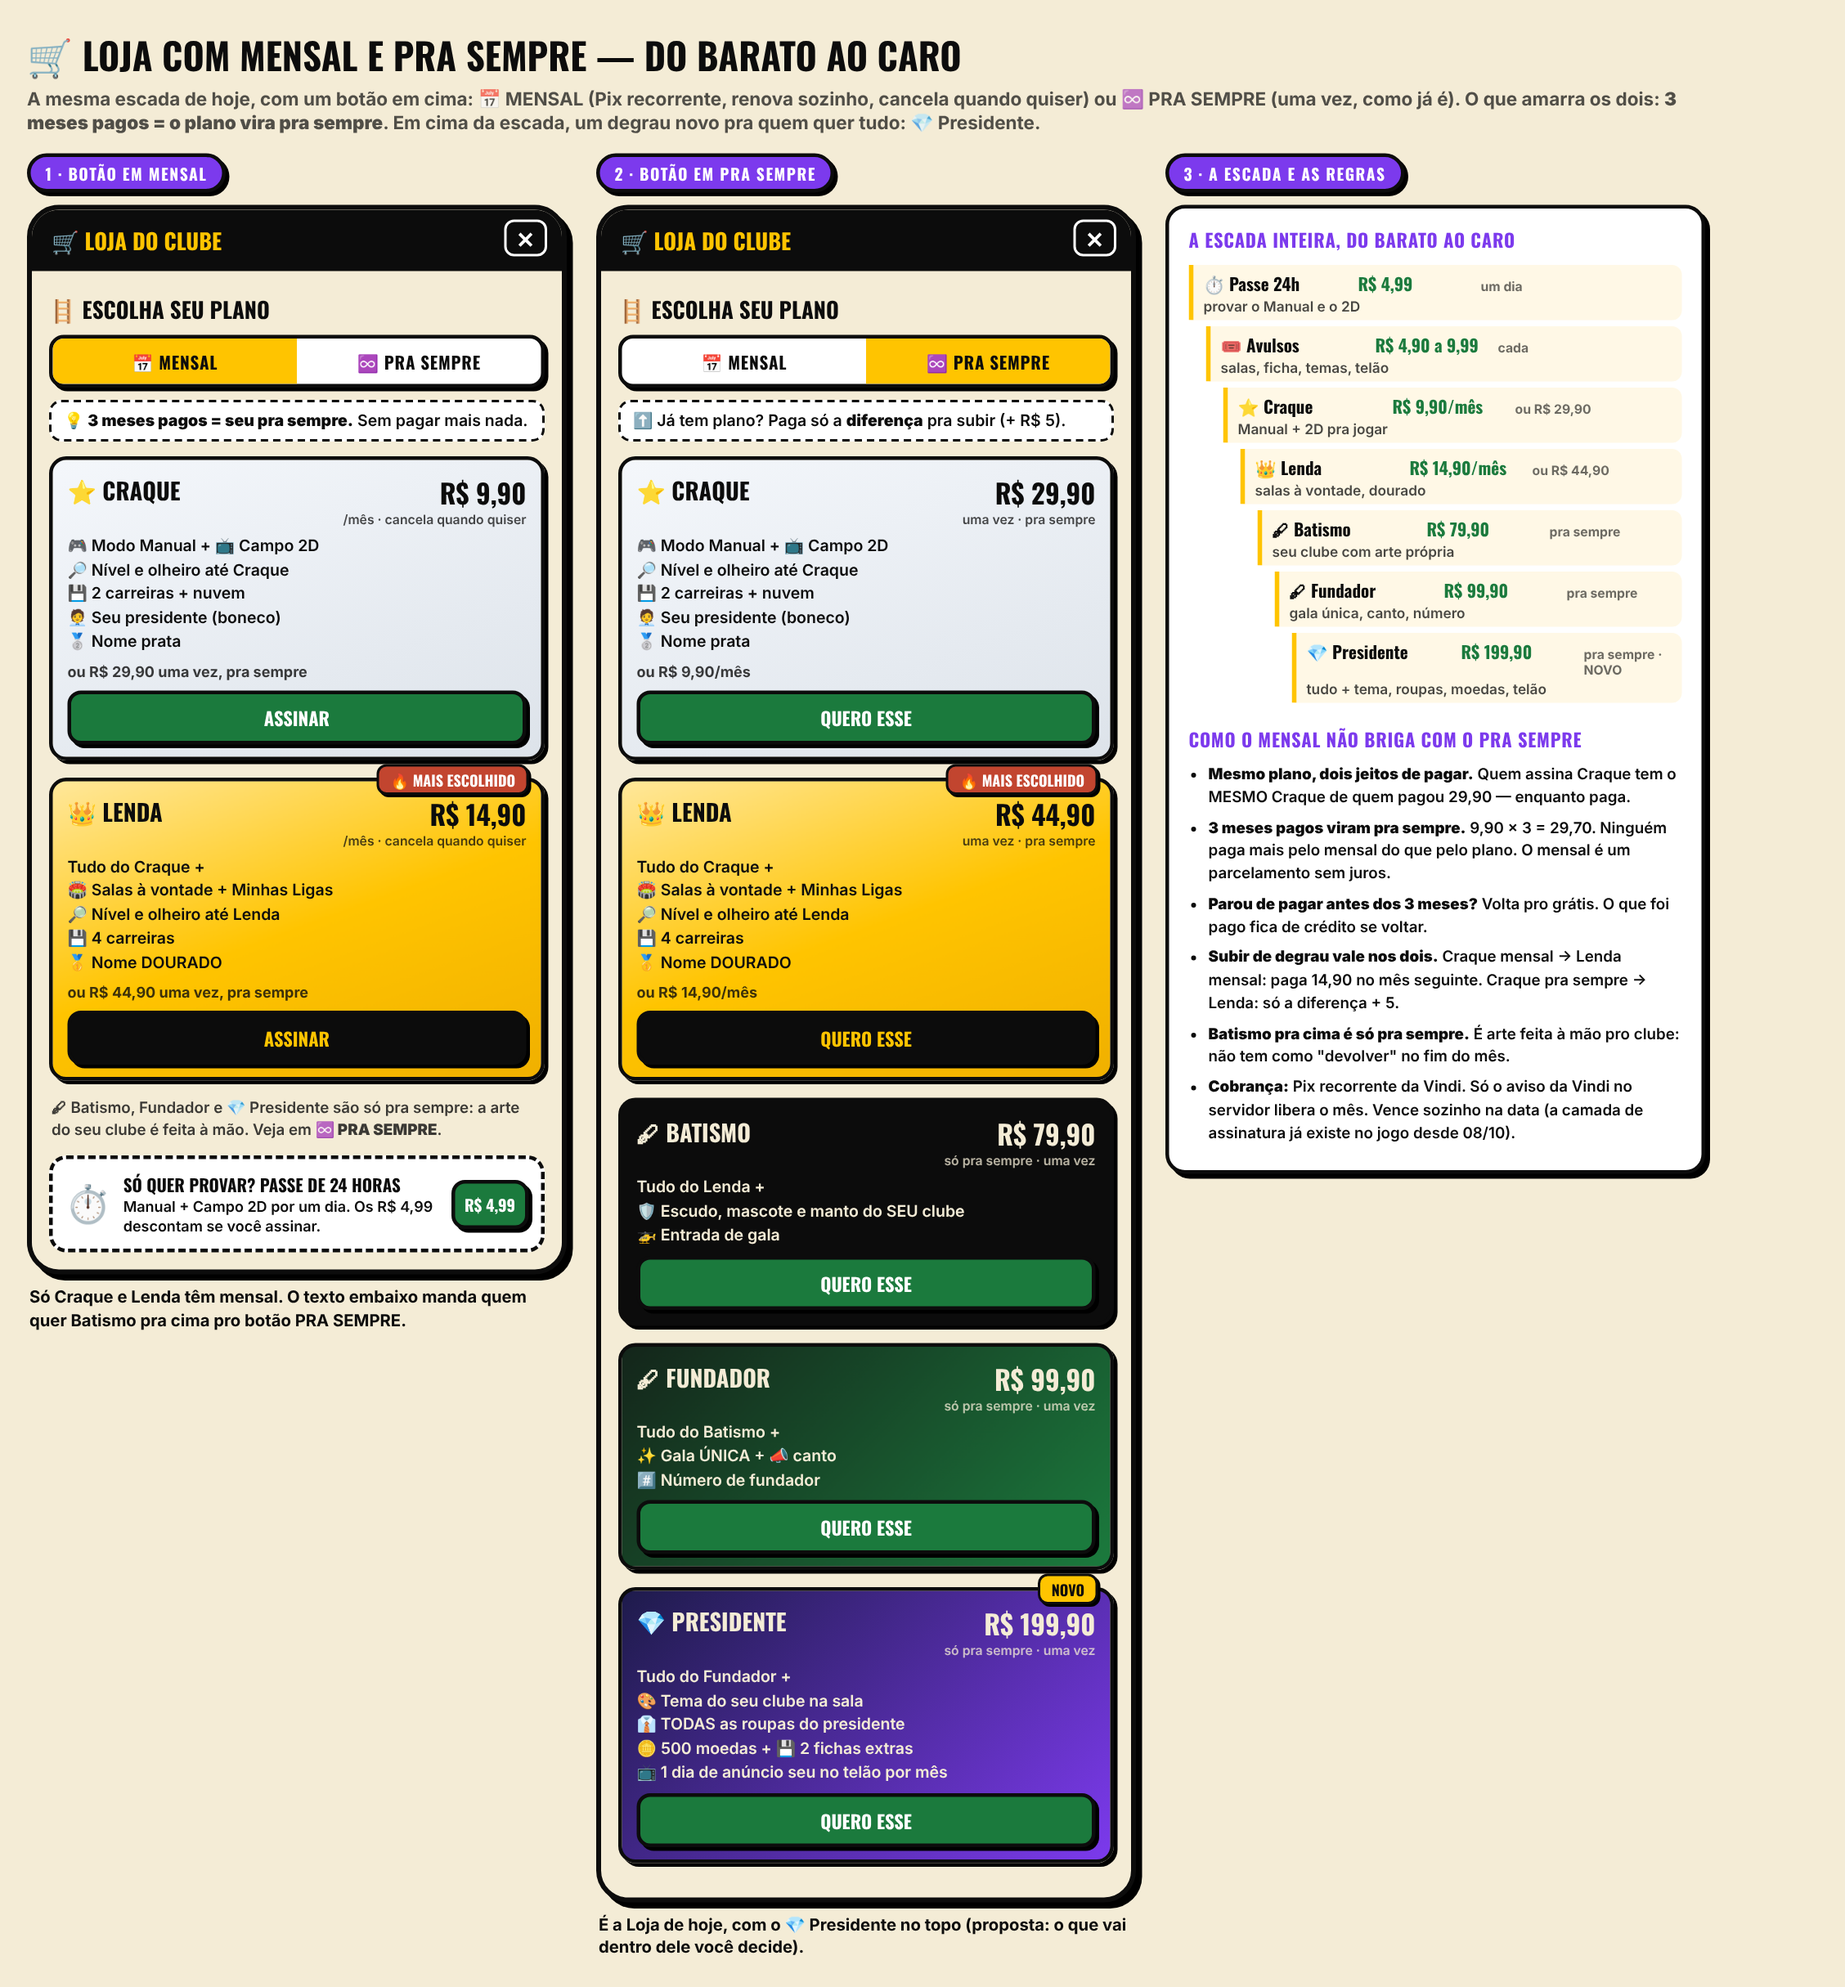
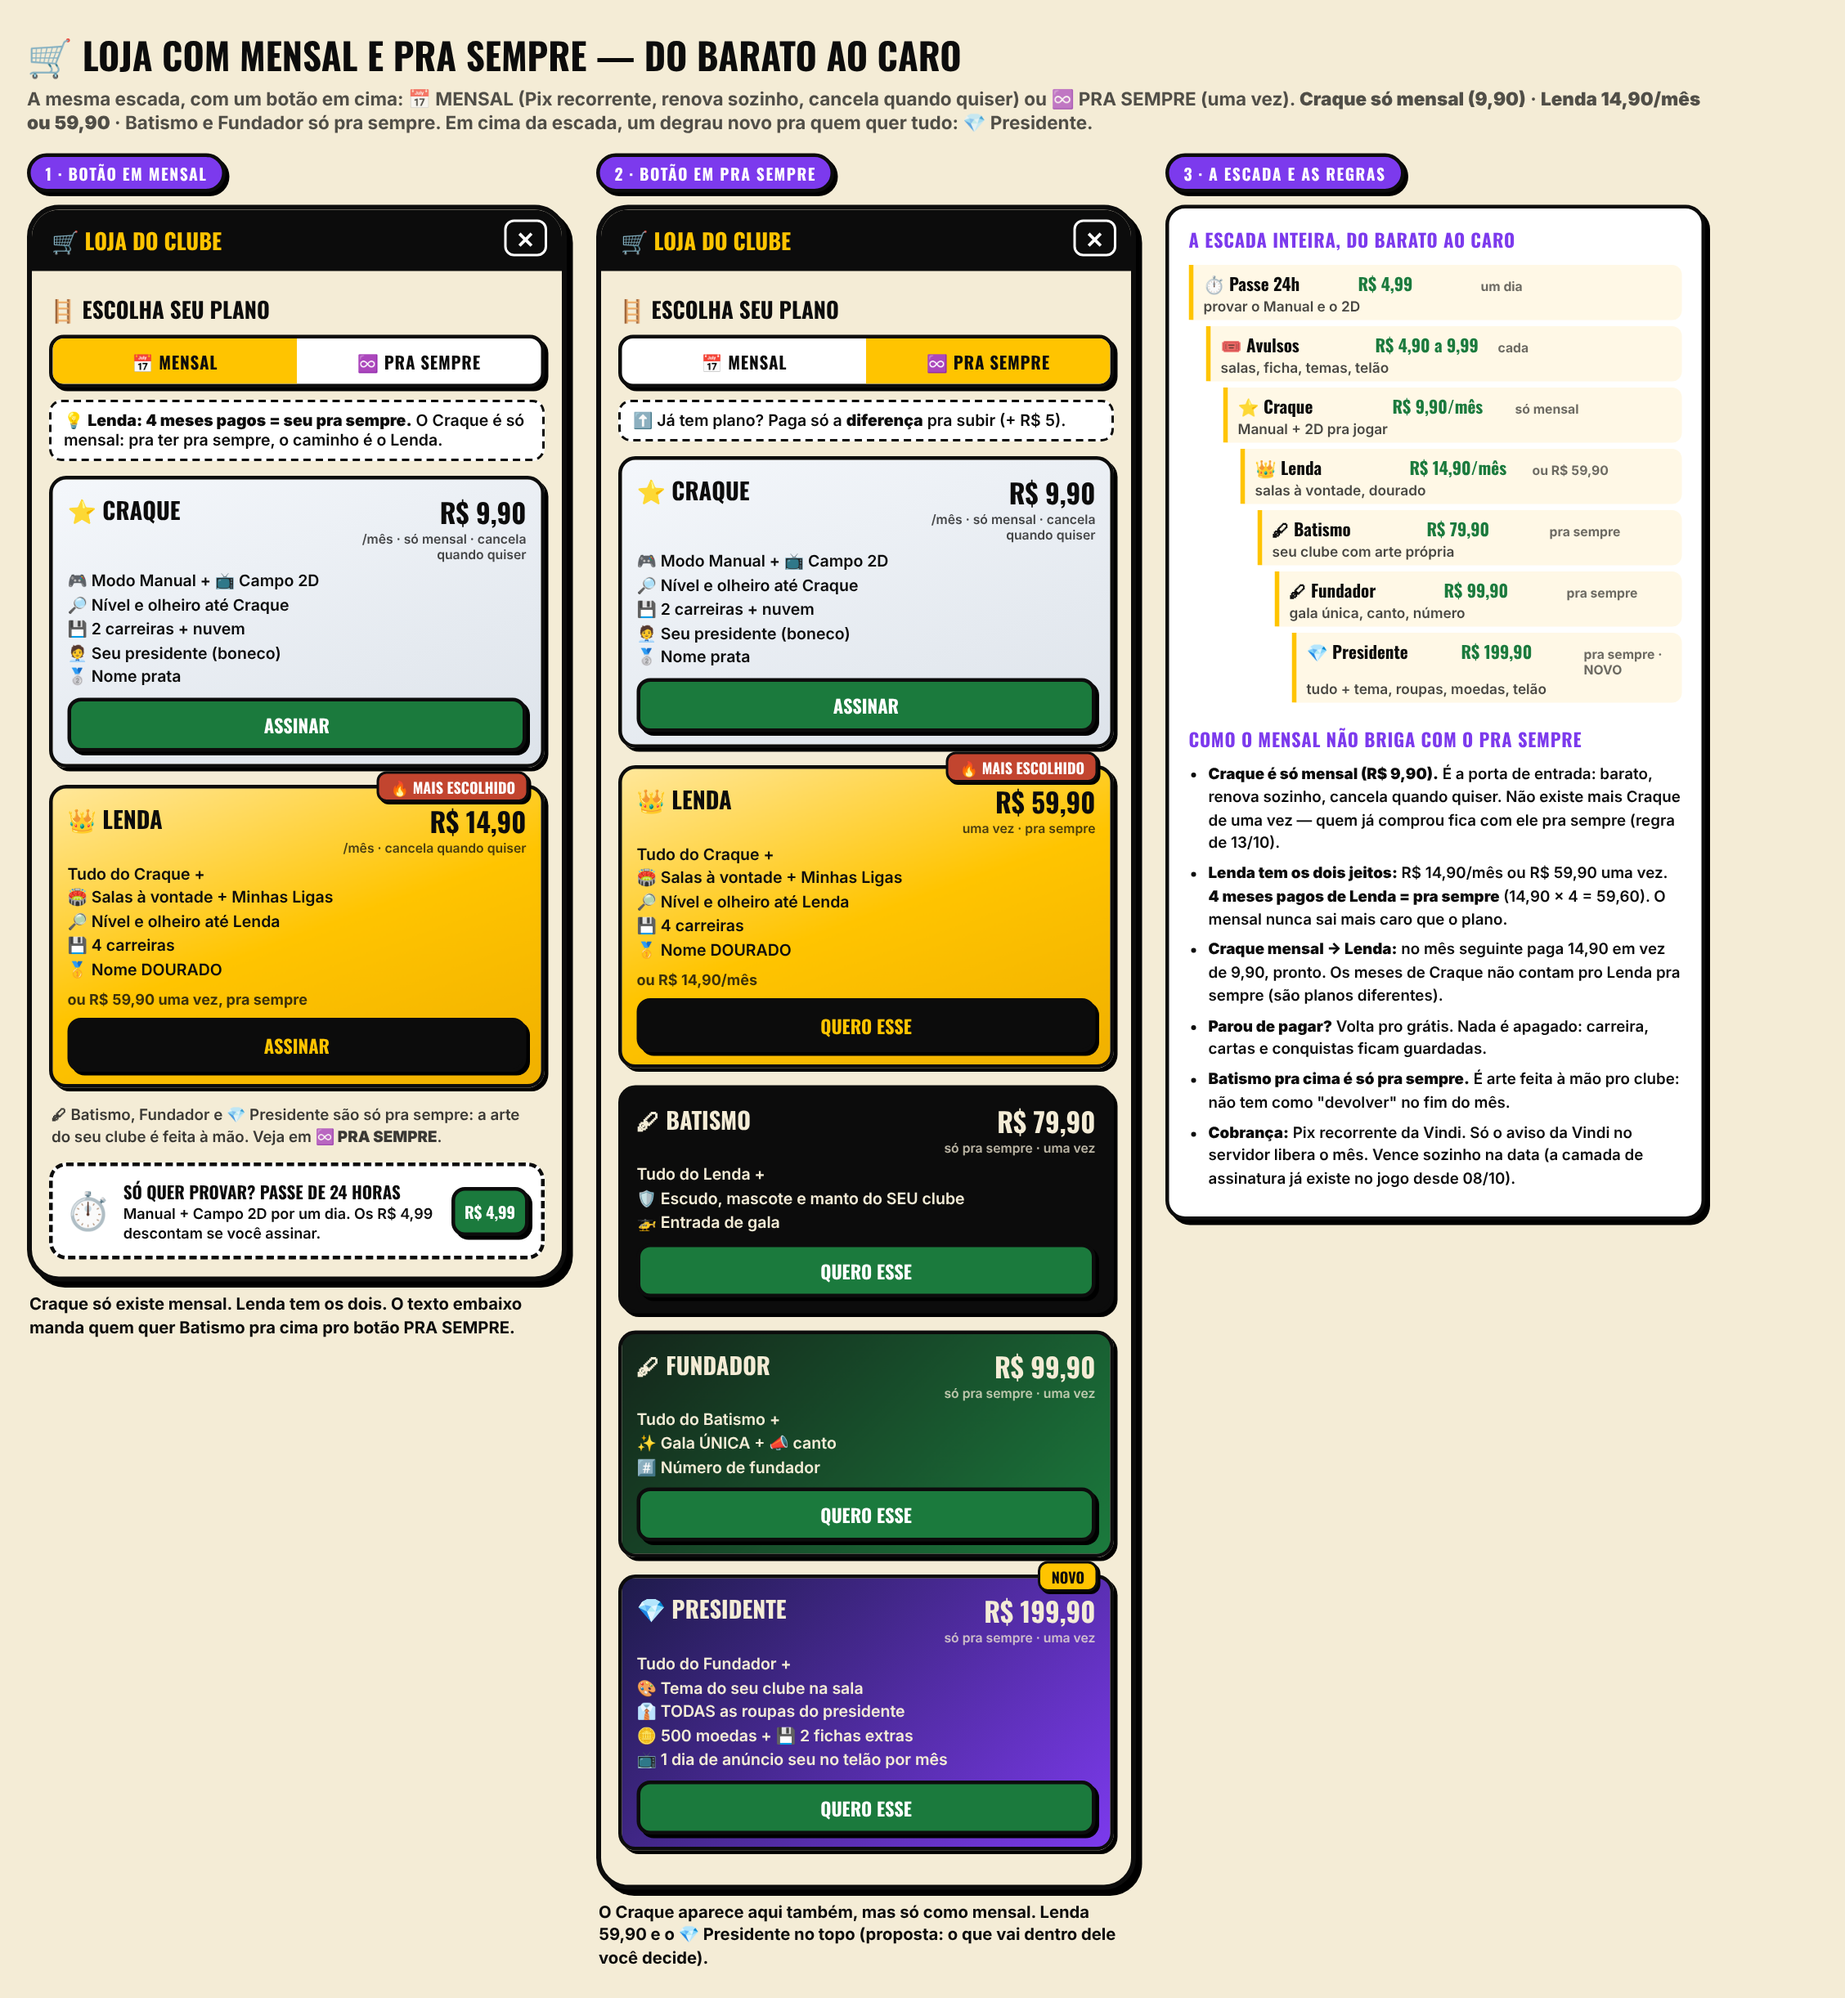
Mockup da loja: Craque só mensal (9,90) e Lenda 14,90/mês ou 59,90 pra sempre, por ordem do Diego — esperando OK
Claude-Session: https://claude.ai/code/session_018Ap1zPCMVL9XeZJN3u93ZA

diff --git a/docs/pendencias.md b/docs/pendencias.md
@@ -107,7 +107,8 @@
   a loja só com planos de uma vez (*"não tô gostando… quero plano de valores baixos mensal e vitalício e etc e alto também"*). Ele tem
   Pix recorrente na Vindi. Proposta: a MESMA escada com um botão 📅 MENSAL / ♾ PRA SEMPRE: Craque 9,90/mês ou 29,90 · Lenda 14,90/mês
   ou 44,90 · Batismo 79,90 e Fundador 99,90 só pra sempre (arte feita à mão) · degrau novo 💎 Presidente 199,90 (conteúdo a decidir).
-  Regra que amarra: 3 MESES PAGOS = PRA SEMPRE (9,90×3 ≈ 29,90), então o mensal é parcelamento sem juros e não briga com o plano. Passe
+  🔁 Diego (26/10): *"29,90 não tem sentido tendo mensal… e o de 49,90 coloque 59,90"* → CRAQUE SÓ MENSAL (9,90; quem já comprou
+  fica, regra de 13/10) · LENDA 14,90/mês OU 59,90 pra sempre · 4 meses pagos de Lenda = pra sempre (14,90×4 = 59,60). Mockup refeito. Passe
   24h 4,99 (desconta se assinar). Só o webhook da Vindi libera o mês (camada de assinatura que vence sozinha já existe desde 08/10).
 - ⏳ MOCKUP ENVIADO, ESPERANDO OK (26/10, `scripts/mockups/loja-estrategia.png`): LOJA PRA VENDER MAIS. Diego trouxe uma proposta
   de loja com mensal 9,90 + vitalício 199,90 + combo 249,90 + passe 24h e pediu análise. Vendas reais (Pix, 30 dias): 21 compradores
